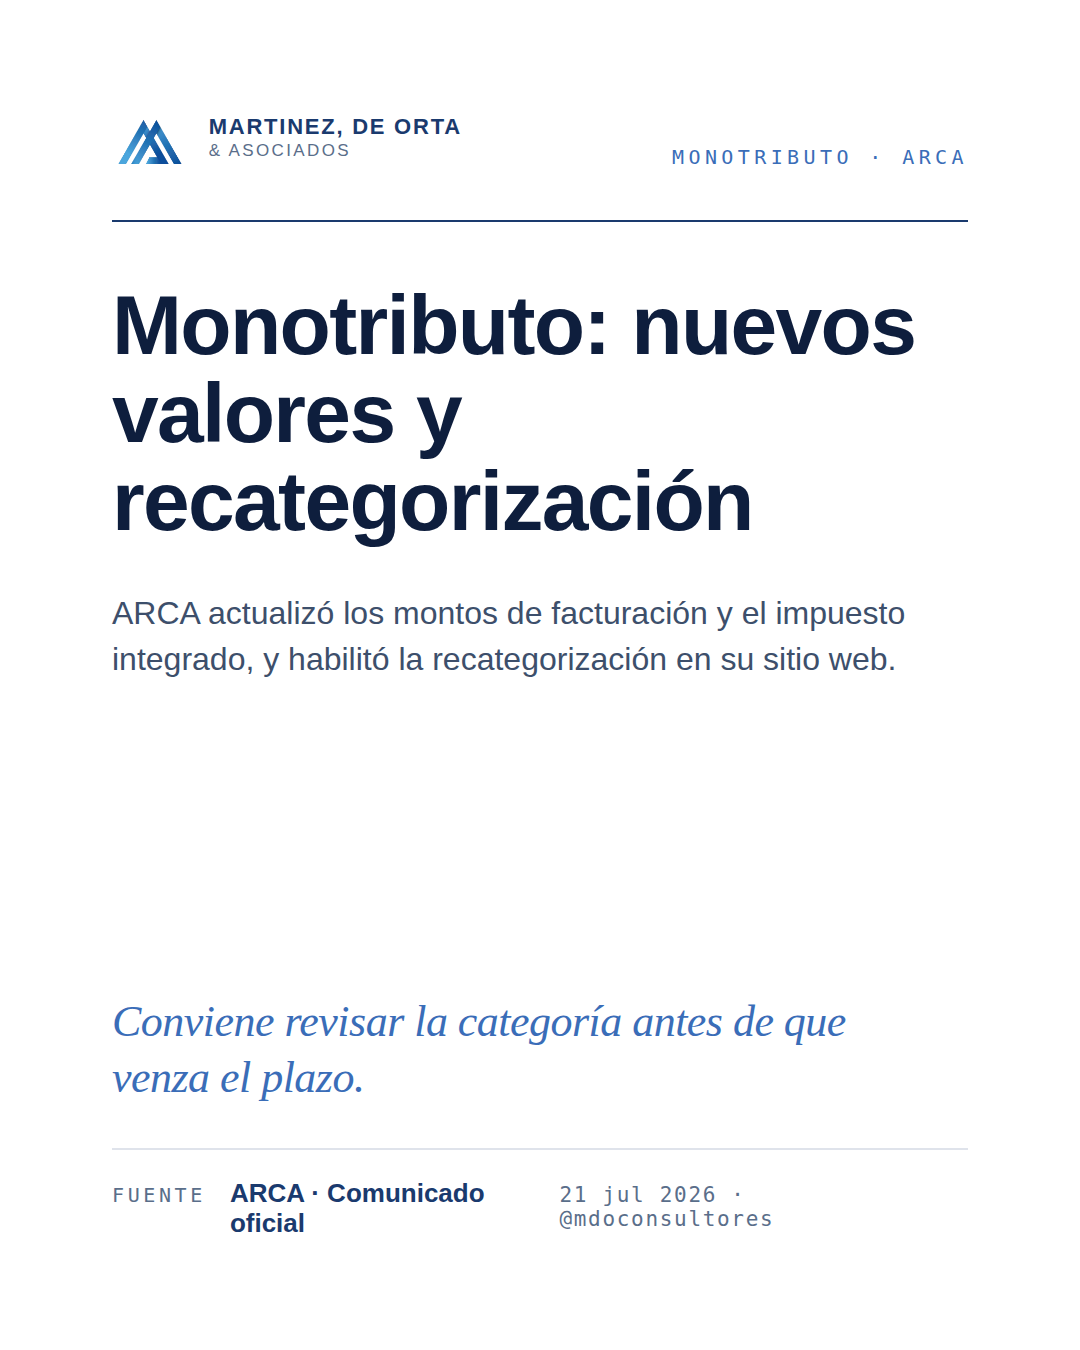
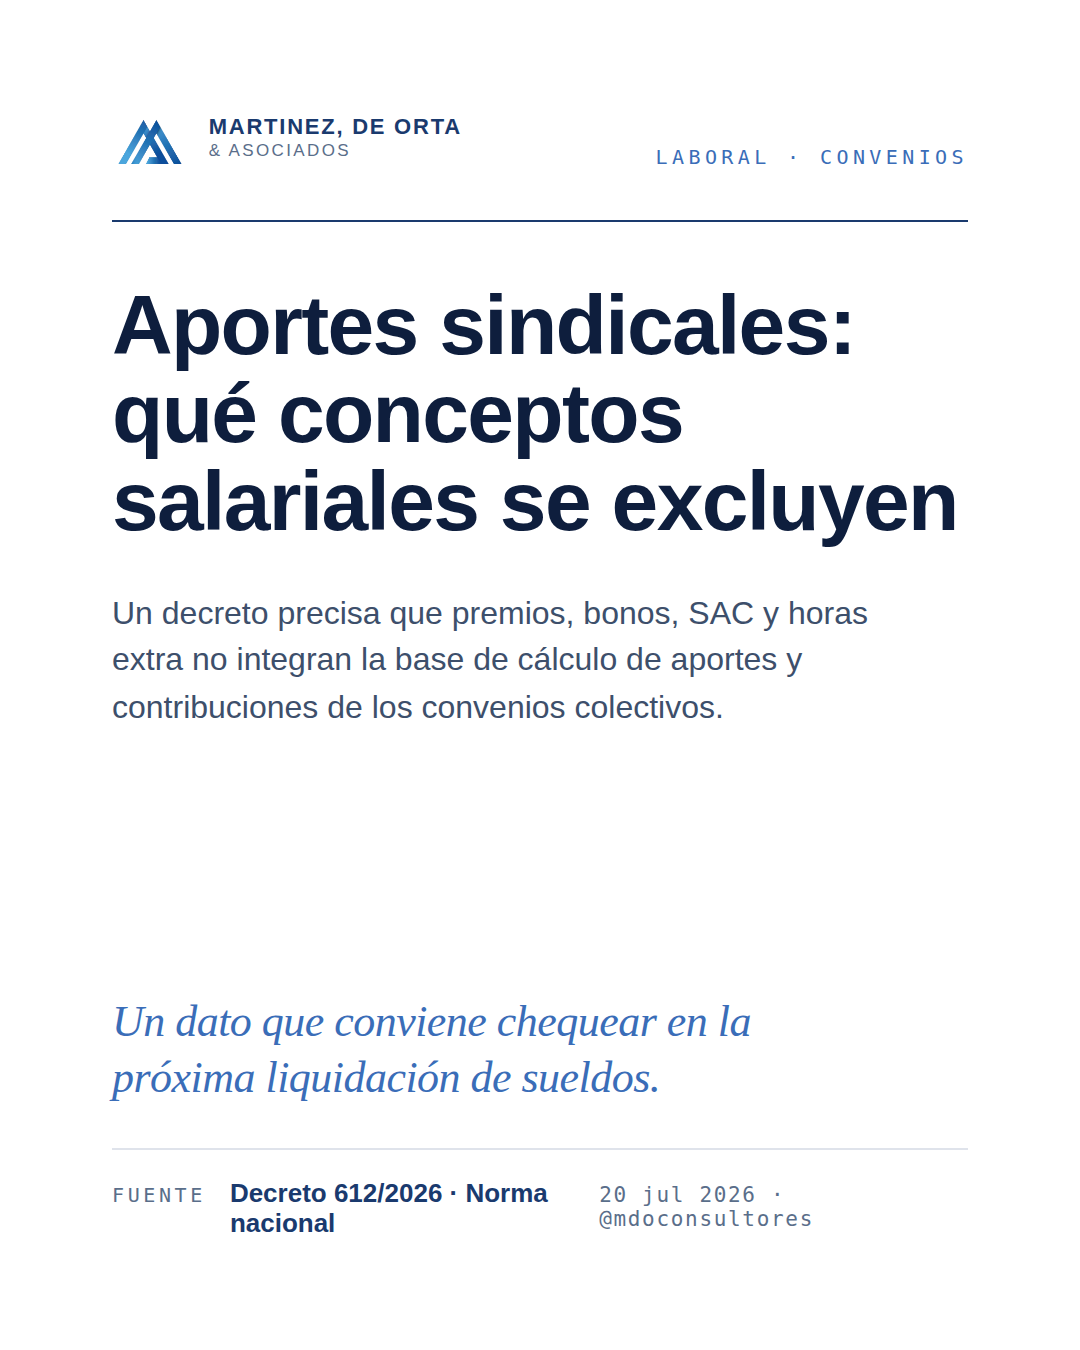
fix: reemplaza noticias repetidas (Monotributo/IGJ ya publicadas)
Lunes y miercoles usaban temas ya posteados el 13/07 y 15/07
respectivamente. Se verifico contra el historial de Metricool y
se reemplazaron por dos noticias frescas y distintas entre si:

- Lunes: Decreto 612/2026, que conceptos salariales excluye la
  base de aportes/contribuciones sindicales (Laboral)
- Miercoles: ARCA - regimen informativo de socios, directores y
  beneficiario final, con vencimiento a fin de mes (Societario)

Se agrega al SKILL.md un paso 0 obligatorio en "Elegir 2
noticias": verificar contra getScheduledPosts de Metricool y
git log de posts/ antes de confirmar cualquier noticia, para
que esto se chequee siempre en las proximas corridas.

Claude-Session: https://claude.ai/code/session_01EkieiKnM1vg7f8pB83uVeP

diff --git a/.claude/skills/mdo-rutina-semanal/SKILL.md b/.claude/skills/mdo-rutina-semanal/SKILL.md
@@ -61,6 +61,17 @@ Levantar todos los threads y leer el primer mensaje de cada uno (asunto + cuerpo
 
 ### 2. Elegir 2 noticias
 
+⚠ **PASO 0 — Verificar que no se repitan noticias ya publicadas (obligatorio, SIEMPRE)**:
+
+Antes de dar por elegida una noticia, chequear que el estudio no la haya posteado ya en una semana anterior. Un mismo hecho (ej. "Monotributo: nuevos valores", "prórroga de Ganancias") no puede volver a salir como noticia del lunes/miércoles aunque pasen varias semanas.
+
+Cómo verificar:
+1. Traer los posts recientes con `getScheduledPosts` (Metricool, blogId `6267636`) de las últimas ~4-6 semanas y revisar el `text` de los posts de lunes/miércoles.
+2. Además revisar `git log --oneline -20 -- posts/` — los mensajes de commit describen el tema de cada posteo.
+3. Si la noticia candidata (mismo hecho/norma, aunque esté redactada distinto) ya apareció, **descartarla** y elegir otra de la newsletter que cumpla los criterios de abajo. Si las 2 noticias más relevantes de la semana ya se usaron antes, bajar en la lista de prioridad antes que repetir.
+
+Esto aplica solo a las noticias (posts 1 y 2). El tip del viernes y el spotlight del sábado ya tienen su propia regla de no repetir ángulo/estructura (ver más abajo).
+
 Criterios de selección (en orden de prioridad):
 
 1. **Impacto normativo**: cambios AFIP/ARCA, decretos, resoluciones nuevas
@@ -71,6 +82,7 @@ Criterios de selección (en orden de prioridad):
 Reglas:
 
 - Las **2 noticias elegidas deben ser temáticamente distintas** (no las dos sobre lo mismo)
+- Las 2 noticias **no deben haber sido publicadas ya** en una semana anterior (ver Paso 0)
 - Preferir noticias con fuente clara y verificable
 - Evitar opinión política partidaria
 
